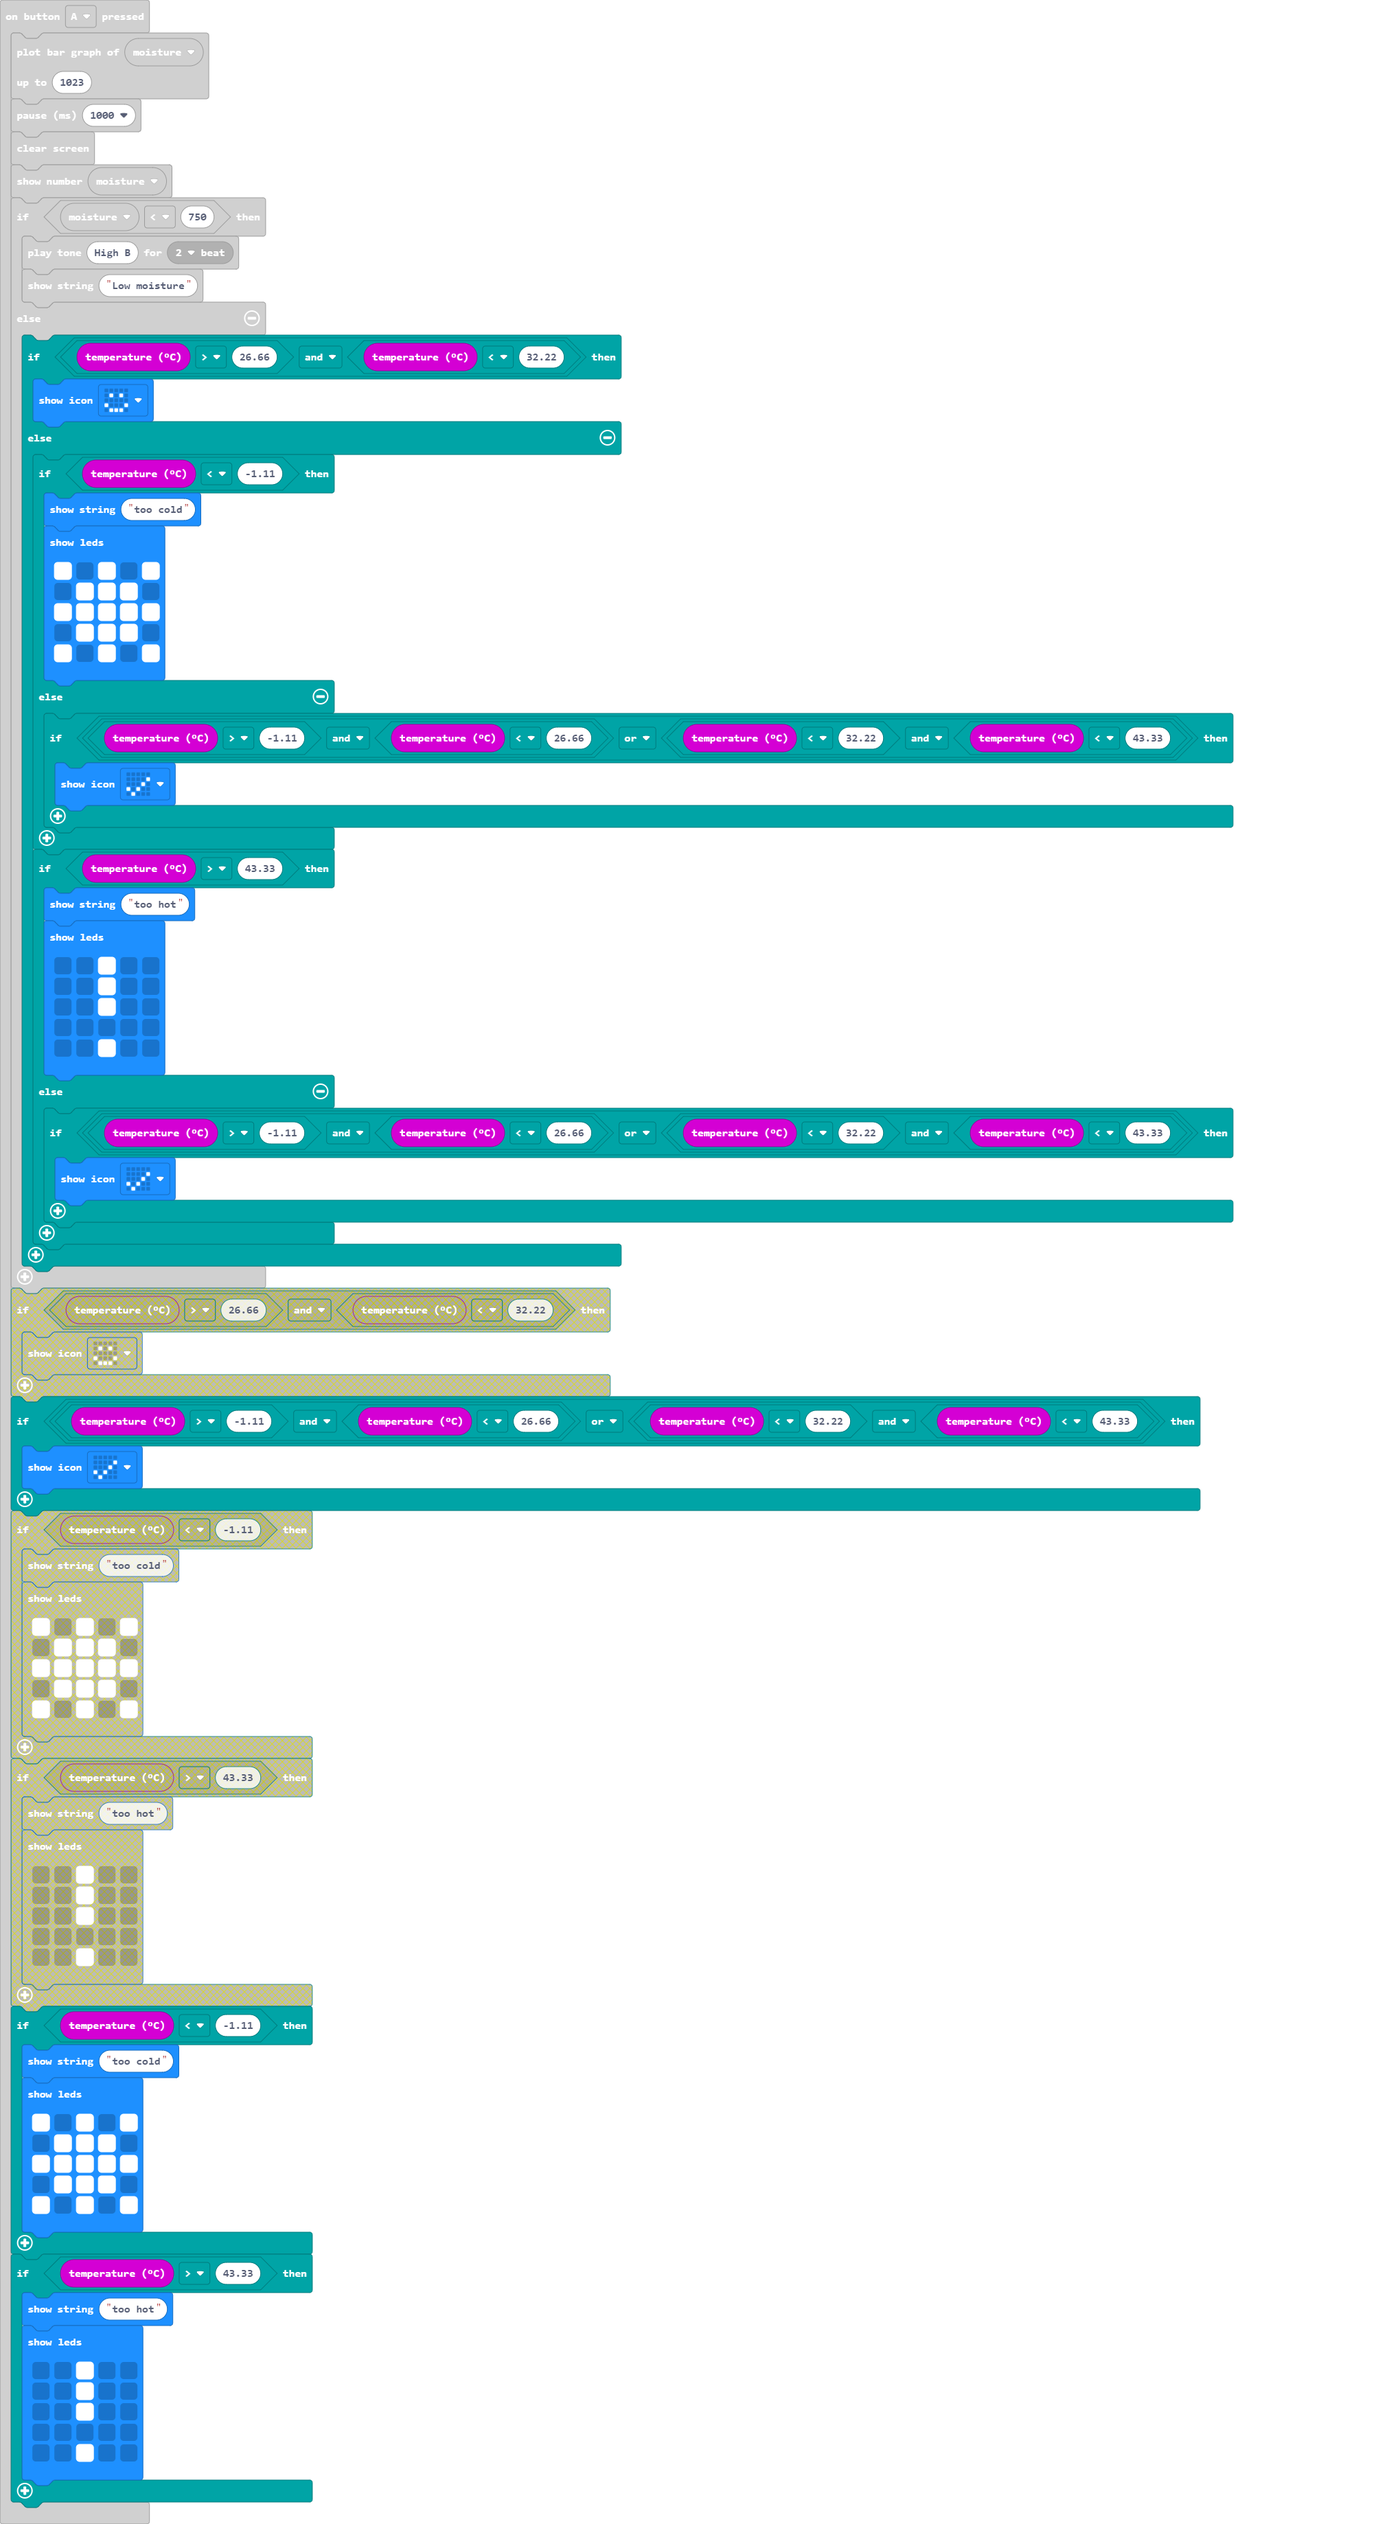
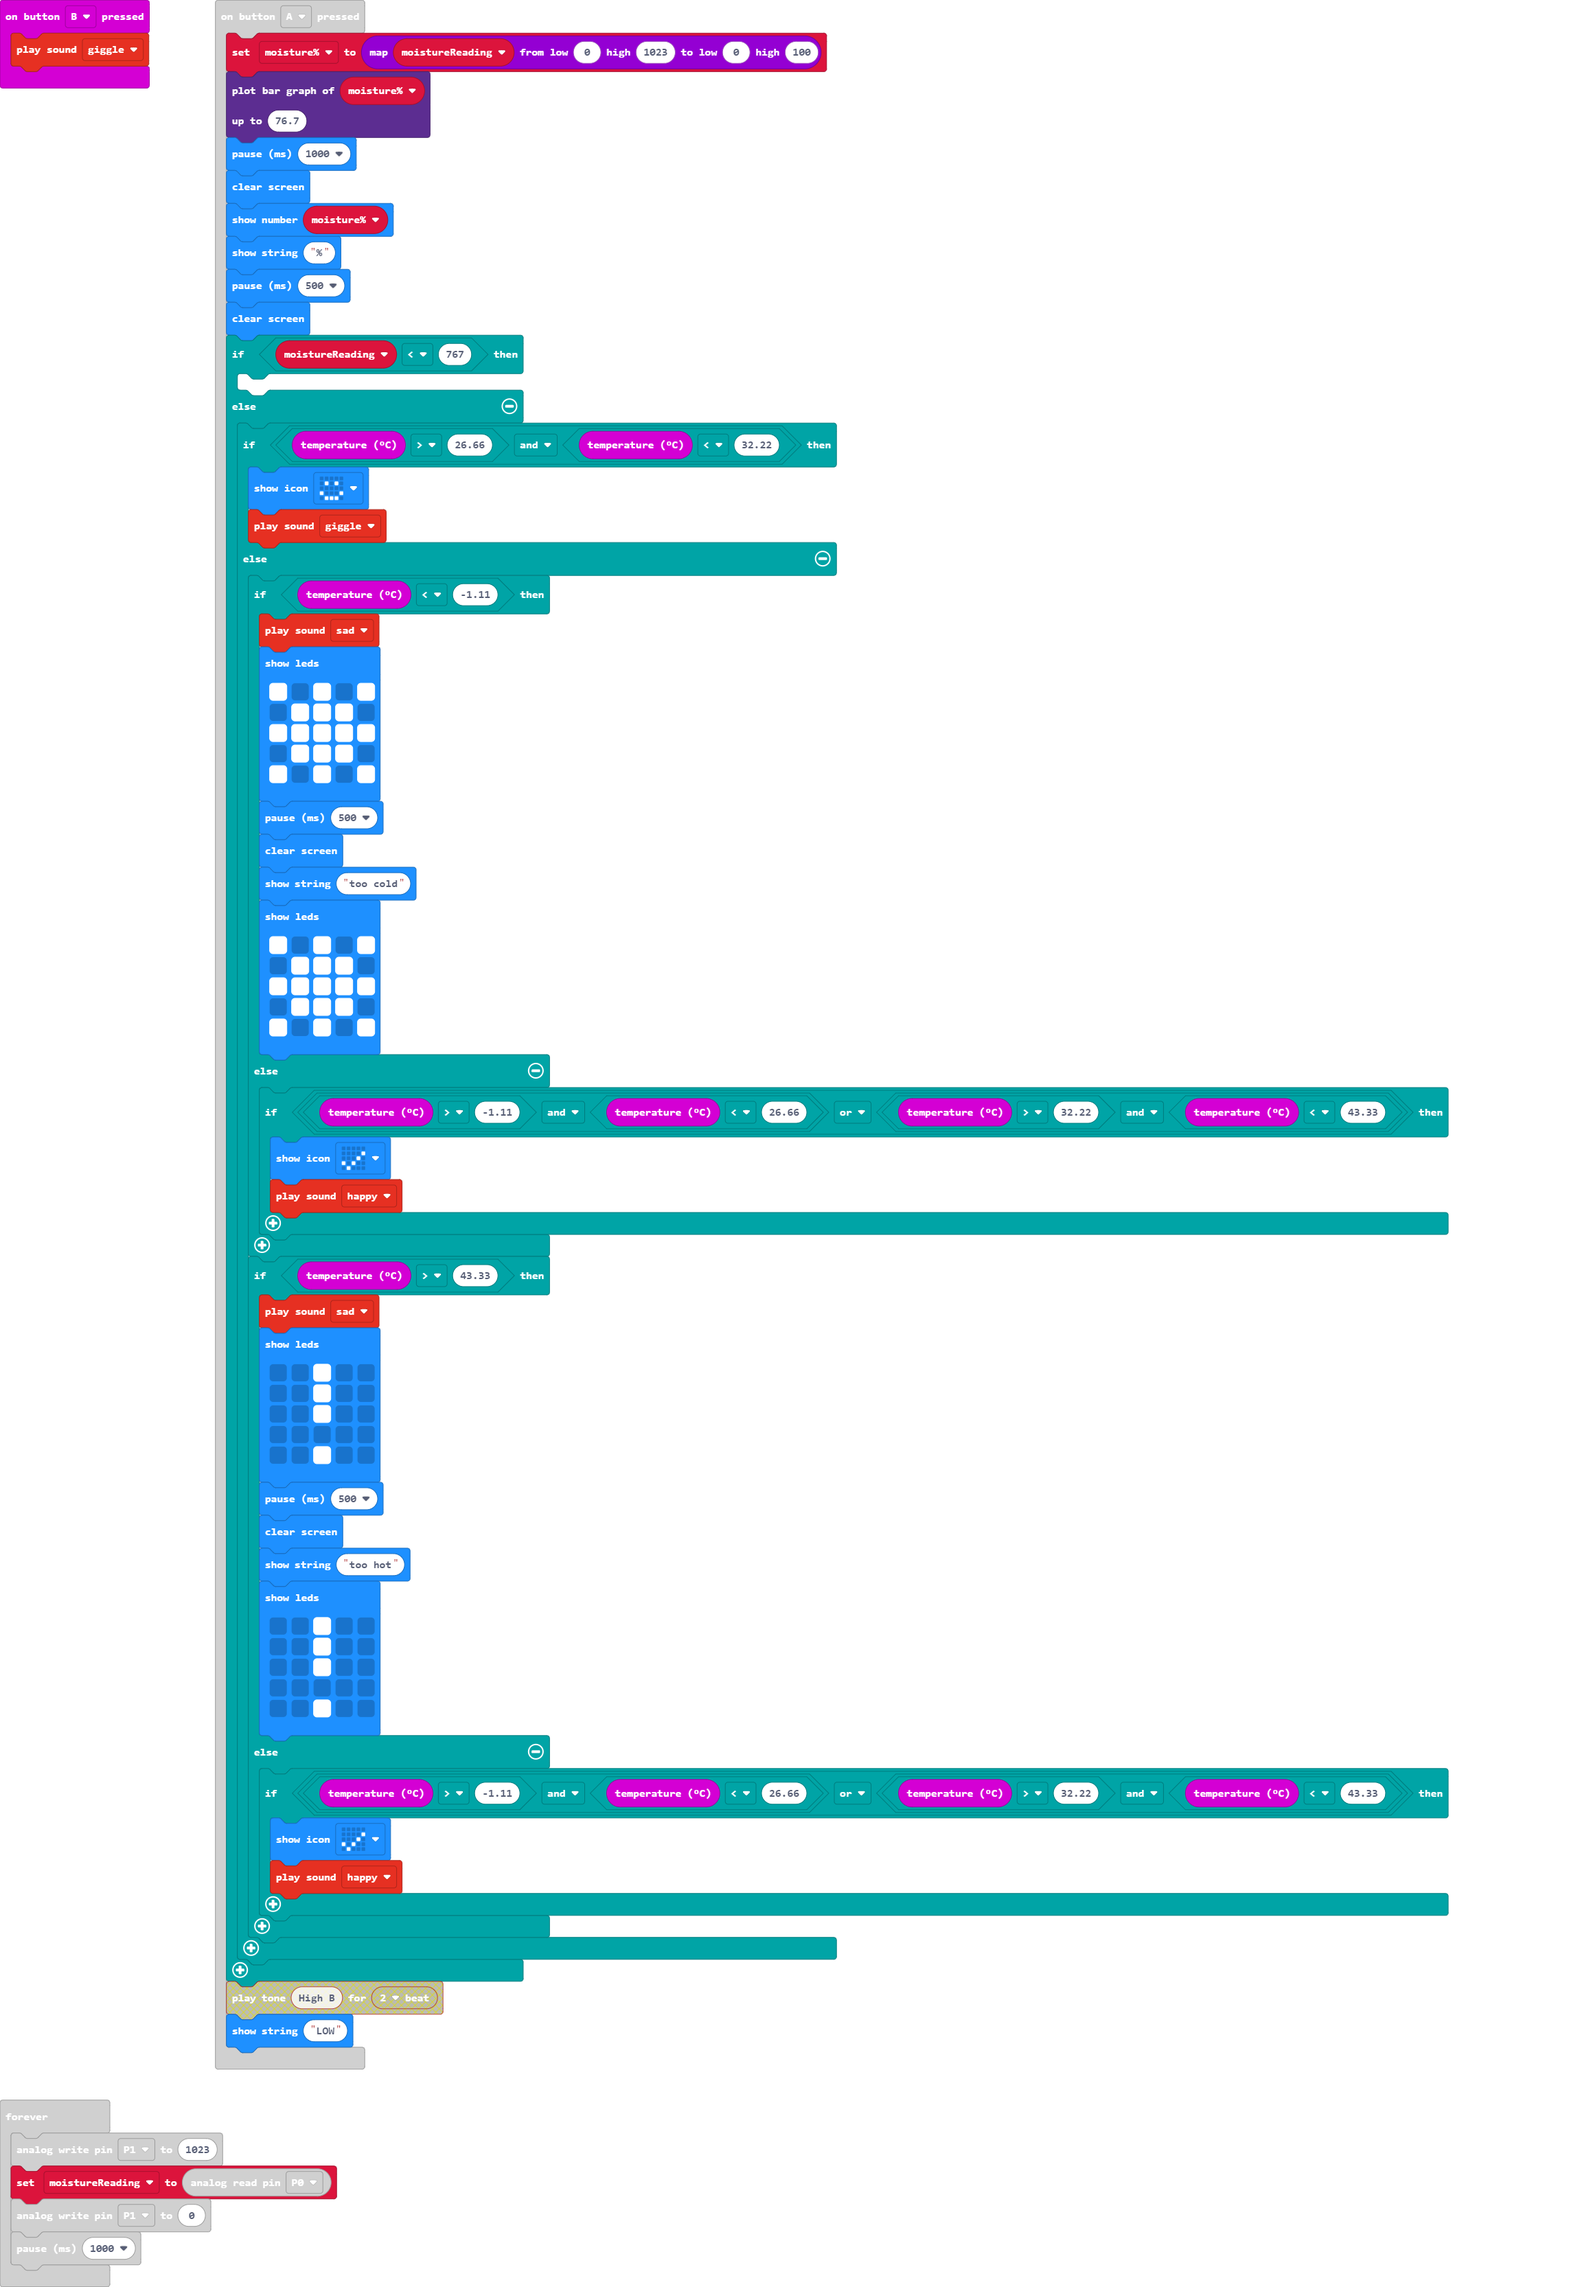
Beta phase

diff --git a/main.ts b/main.ts
@@ -1,19 +1,33 @@
 input.onButtonPressed(Button.A, function () {
+    moisture = Math.map(moistureReading, 0, 1023, 0, 100)
     led.plotBarGraph(
     moisture,
-    1023
+    76.7
     )
     basic.pause(1000)
     basic.clearScreen()
     basic.showNumber(moisture)
-    if (moisture < 750) {
-        music.playTone(988, music.beat(BeatFraction.Double))
-        basic.showString("Low moisture")
+    basic.showString("%")
+    basic.pause(500)
+    basic.clearScreen()
+    if (moistureReading < 767) {
+        basic.showString("LOW")
     } else {
         if (input.temperature() > 26.66 && input.temperature() < 32.22) {
             basic.showIcon(IconNames.Happy)
+            soundExpression.giggle.play()
         } else {
             if (input.temperature() < -1.11) {
+                soundExpression.sad.play()
+                basic.showLeds(`
+                    # . # . #
+                    . # # # .
+                    # # # # #
+                    . # # # .
+                    # . # . #
+                    `)
+                basic.pause(500)
+                basic.clearScreen()
                 basic.showString("too cold")
                 basic.showLeds(`
                     # . # . #
@@ -23,11 +37,22 @@ input.onButtonPressed(Button.A, function () {
                     # . # . #
                     `)
             } else {
-                if (input.temperature() > -1.11 && input.temperature() < 26.66 || input.temperature() < 32.22 && input.temperature() < 43.33) {
+                if (input.temperature() > -1.11 && input.temperature() < 26.66 || input.temperature() > 32.22 && input.temperature() < 43.33) {
                     basic.showIcon(IconNames.Yes)
+                    soundExpression.happy.play()
                 }
             }
             if (input.temperature() > 43.33) {
+                soundExpression.sad.play()
+                basic.showLeds(`
+                    . . # . .
+                    . . # . .
+                    . . # . .
+                    . . . . .
+                    . . # . .
+                    `)
+                basic.pause(500)
+                basic.clearScreen()
                 basic.showString("too hot")
                 basic.showLeds(`
                     . . # . .
@@ -37,18 +62,23 @@ input.onButtonPressed(Button.A, function () {
                     . . # . .
                     `)
             } else {
-                if (input.temperature() > -1.11 && input.temperature() < 26.66 || input.temperature() < 32.22 && input.temperature() < 43.33) {
+                if (input.temperature() > -1.11 && input.temperature() < 26.66 || input.temperature() > 32.22 && input.temperature() < 43.33) {
                     basic.showIcon(IconNames.Yes)
+                    soundExpression.happy.play()
                 }
             }
         }
     }
 })
+input.onButtonPressed(Button.B, function () {
+    soundExpression.giggle.play()
+})
+let moistureReading = 0
 let moisture = 0
 led.setBrightness(150)
 basic.forever(function () {
     pins.analogWritePin(AnalogPin.P1, 1023)
-    moisture = pins.analogReadPin(AnalogPin.P0)
+    moistureReading = pins.analogReadPin(AnalogPin.P0)
     pins.analogWritePin(AnalogPin.P1, 0)
     basic.pause(1000)
 })
